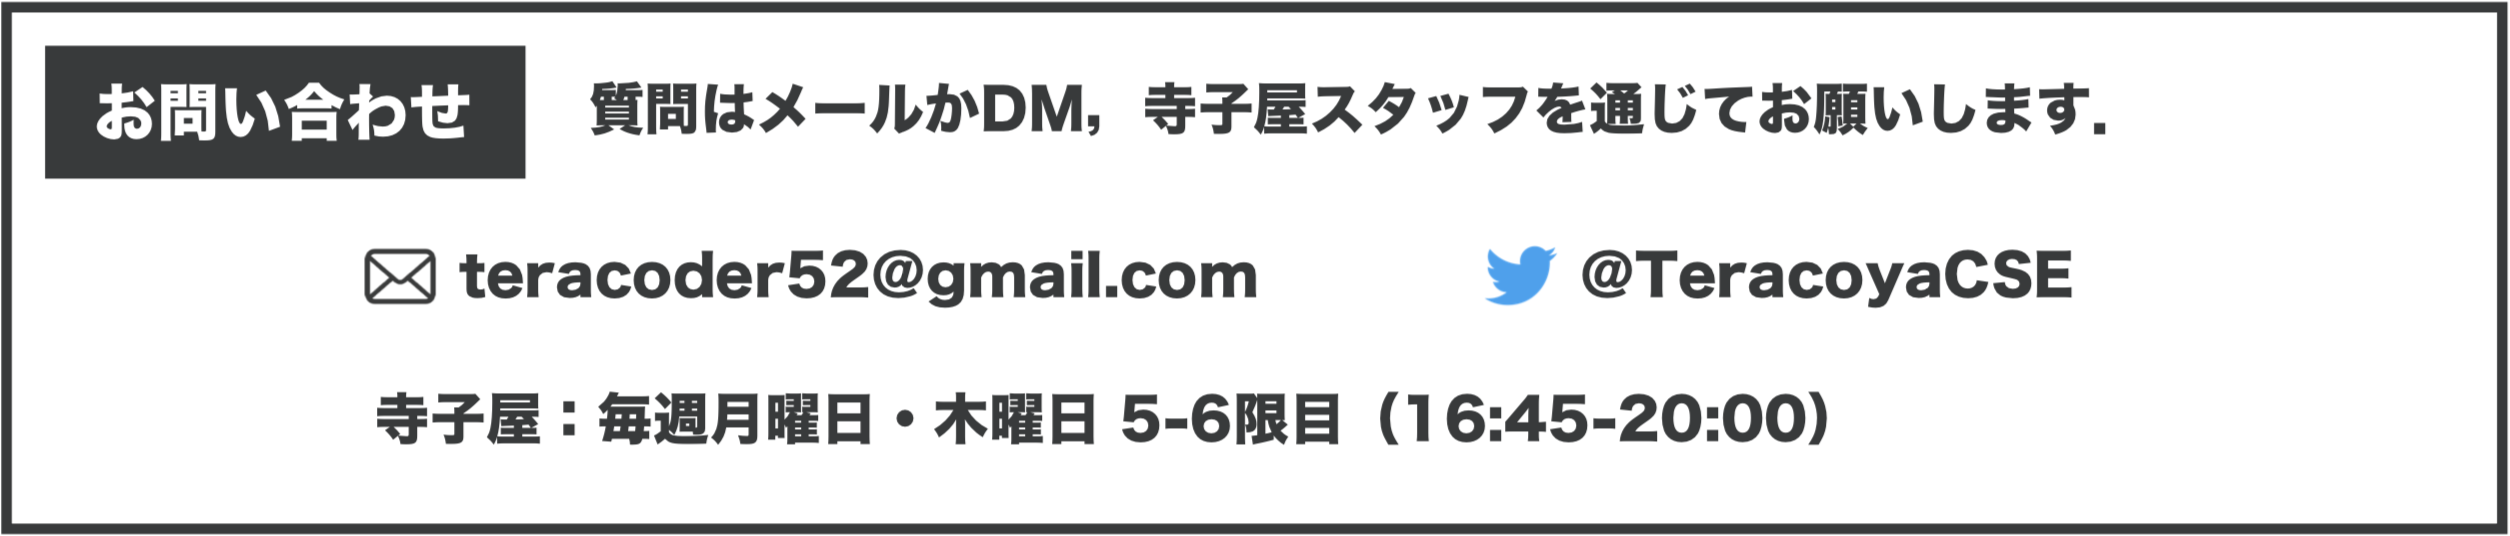
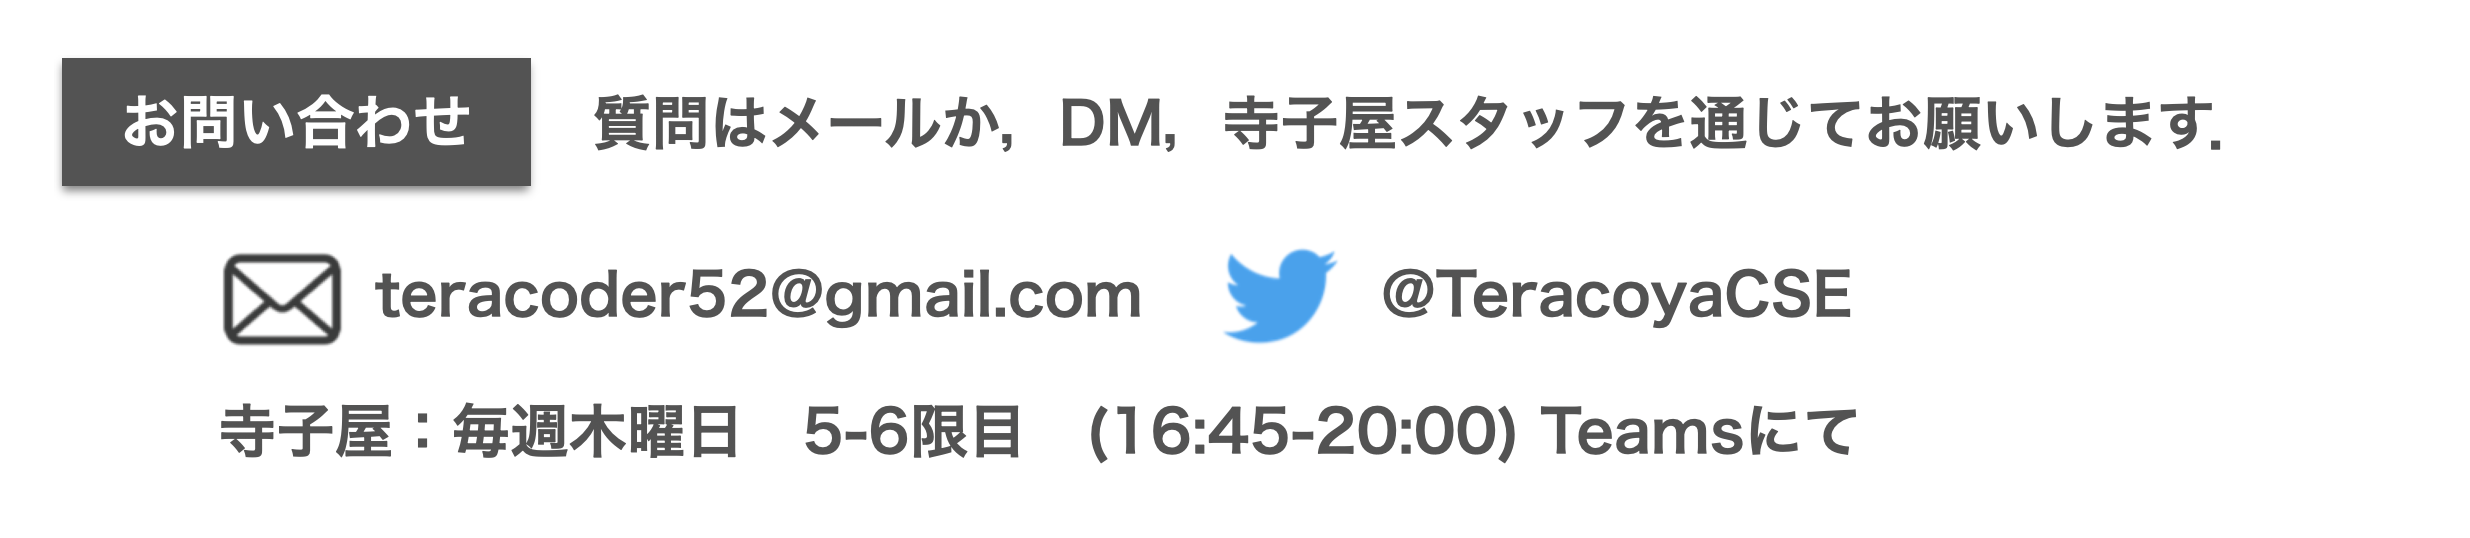
フッダの変更及び表彰式等の案内変更

Changed region(s): [[0.0, 0.0, 1.0, 1.0], [0.0623, 0.4478, 0.8417, 0.6567], [0.0935, 0.7164, 0.7482, 0.8657]]

diff --git a/2020/index.html b/2020/index.html
@@ -69,24 +69,24 @@
             <br>
 
             <!-- content-box -->
-            <!--
+            
             <div class="content-box">
-                <h2 class="text-xs-center">オンサイト会場からの参加も可能！</h2>
+                <h2 class="text-xs-center">オンサイト会場について</h2>
                 <hr>
                 <p>
-                    TeraCoderはどこからでも参加可能ですが、<b>オンサイトの会場</b>もご準備します。
-                    コンテスト終了後は、運営からの問題解説や参加者同士の交流会も予定しています。
-                    是非お越しください。</b>
+                    TeraCoderはどこからでも参加可能ですが、<b>オンサイトの会場</b>を検討しています！<br>
+                    なお新型コロナウイルス感染症対策のためオンサイト会場の用意ができない場合があります．決定次第お知らせいたします．
                 </p>
-
+            <!---
                 <div class="card">
                     <div class="card-block">
                     <p class="card-text">日程: 11月30日(土) 15:00 - 19:00</p>
                     <p class="card-text">会場: 14号館自習室(寺子屋の部屋)</p>
                     </div>
                 </div>
-            </div>
+            
             -->
+            </div>
             <!-- content-box -->
 
             <div class="content-box go-contest-site-bg text-xs-center">

diff --git a/2020/prize.html b/2020/prize.html
@@ -87,7 +87,7 @@
                     <p class="card-text">場所: 14号館1階14101自習室 (14号館正面玄関入ってすぐのガラス張りの部屋)</p>
                     </div>
                 </div> 
-                <p>コンテスト終了後に受賞者の方にはアカウント情報に記載されている連絡先メールアドレスに案内を送信させて頂きます．表彰式にご出席頂けない受賞者の方は，後日寺子屋の時間内（ 毎週月・木 16:45 ~ 20:00 ）に 14101自習室 にお越し下さい．</p>
+                <p>コンテスト終了後に受賞者の方にはアカウント情報に記載されている連絡先メールアドレスに案内を送信させて頂きます．表彰式にご出席頂けない受賞者の方の贈呈方法については，例年寺子屋でお渡ししておりましたが，今年は寺子屋がオンラインのため，現在協議中です．</p>
                 
                 <div class="alert alert-info">※新型コロナウイルス感染予防対策のため，表彰式や商品の贈呈方法について変わる可能性があります．決定次第お知らせいたします．</div>
                 <h3>アカウント情報について</h3>
